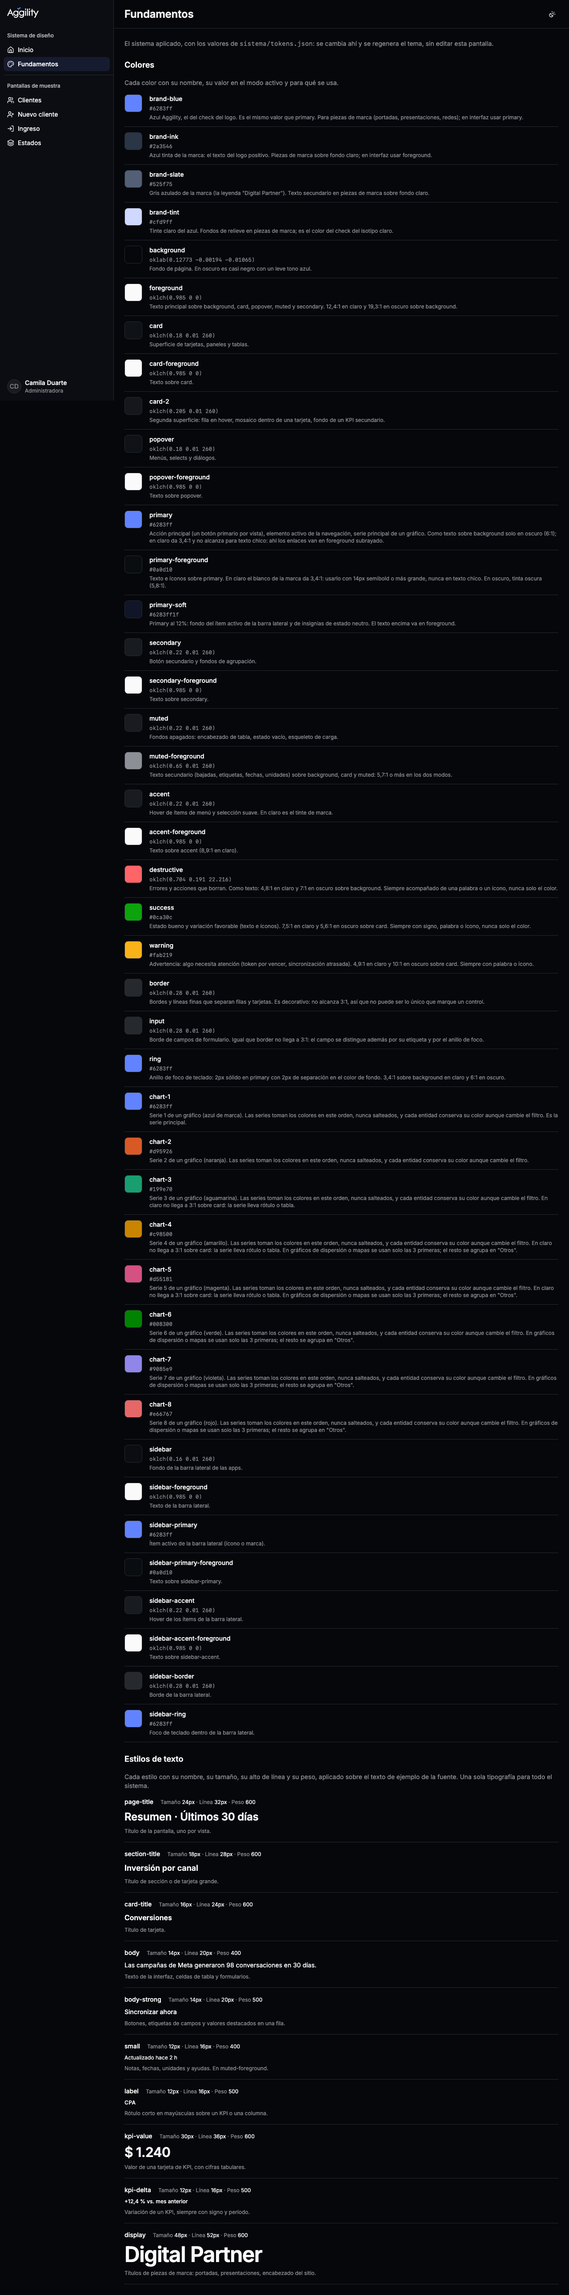
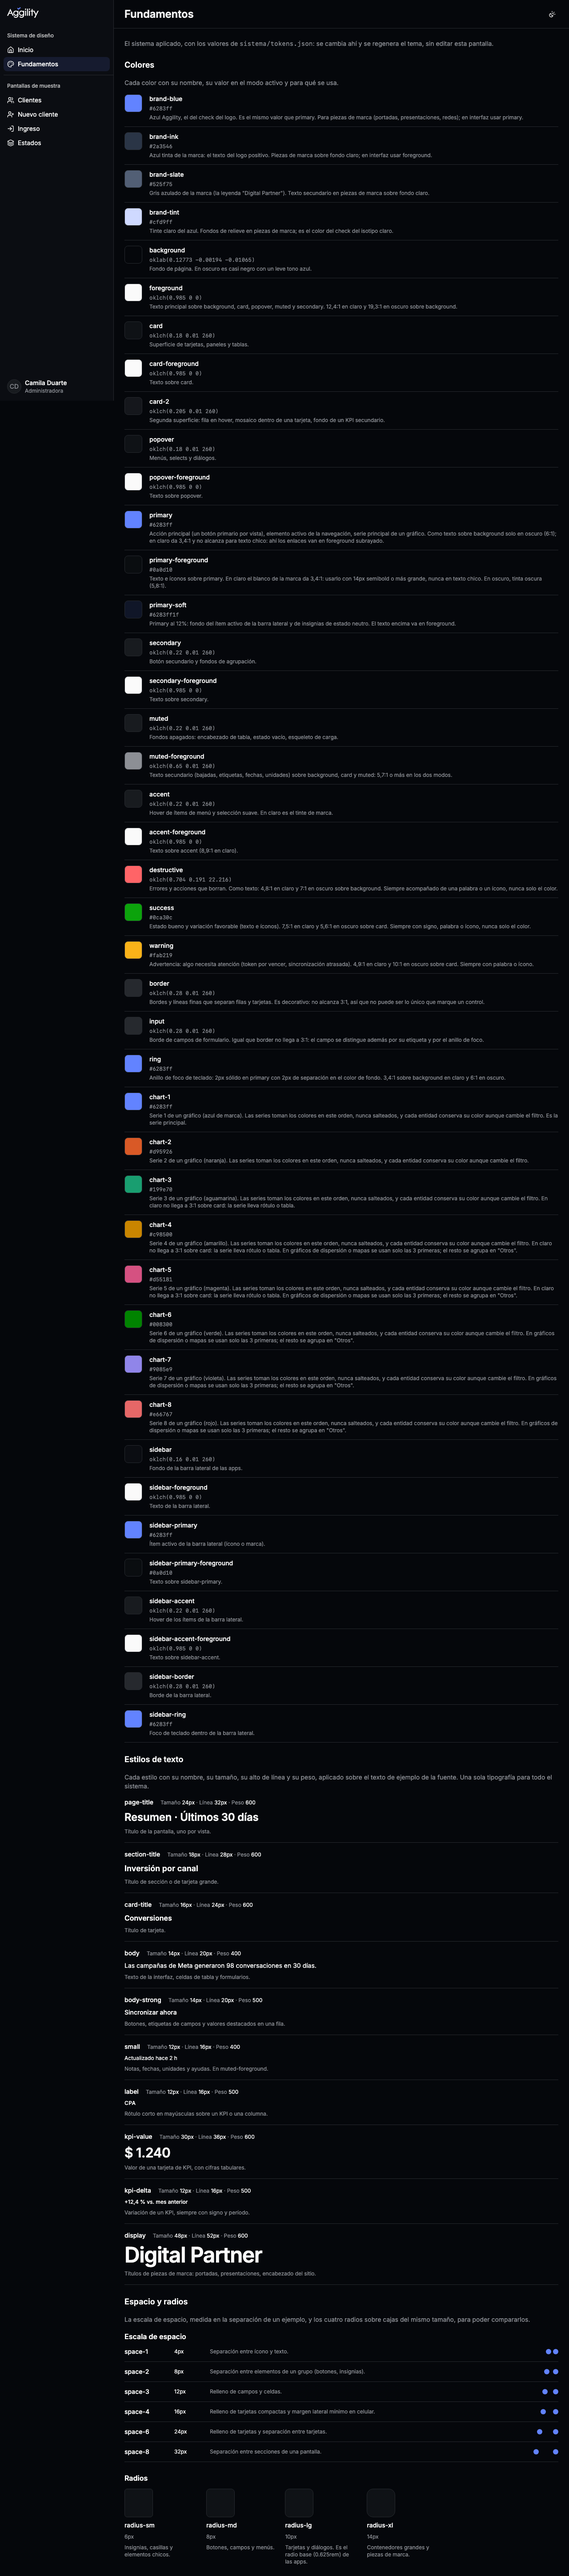
Tarea 7.3 de base-visual: la escala de espacio y los radios en la pantalla de fundamentos

diff --git a/e2e/fundamentos.spec.ts b/e2e/fundamentos.spec.ts
@@ -29,9 +29,12 @@ type Estilo = {
   sample: string;
   usage: string;
 };
+type Medida = { name: string; value: string; usage: string };
 
 const COLORES: Color[] = FUENTE.color.tokens;
 const ESTILOS: Estilo[] = FUENTE.type.groups.flatMap((grupo: { styles: Estilo[] }) => grupo.styles);
+const ESPACIOS: Medida[] = FUENTE.spacing.tokens;
+const RADIOS: Medida[] = FUENTE.radius.tokens;
 const MODOS = { claro: "light", oscuro: "dark" } as const;
 
 /** El valor que la fuente define para un modo. */
@@ -248,5 +251,124 @@ test.describe("los estilos de texto de fundamentos", () => {
     expect([...familias.keys()], "una sola familia tipográfica").toHaveLength(1);
     expect([...familias.keys()], "y es la que la app carga").toEqual([delCuerpo]);
     expect([...familias.keys()][0], "la familia es Inter").toContain("Inter");
+  });
+});
+
+test.describe("la escala de espacio y los radios de fundamentos", () => {
+  test("cada medida de la escala de espacio se ve con su nombre, su medida y un ejemplo", async ({ page }) => {
+    // El contrato de la pantalla: cada medida es un elemento con `data-espacio="<nombre>"` que
+    // muestra el nombre, el uso, la medida en un `[data-medida]` y un ejemplo visible con
+    // `data-ejemplo`, cuya separación el navegador dibuja del tamaño que la fuente dice.
+    await abrirEn(page, "claro");
+
+    const faltantes: string[] = [];
+
+    for (const espacio of ESPACIOS) {
+      const fila = page.locator(`[data-espacio="${espacio.name}"]`);
+
+      if ((await fila.count()) === 0) {
+        faltantes.push(`${espacio.name}: no está en la pantalla`);
+        continue;
+      }
+
+      const texto = (await fila.first().innerText()).replace(/\s+/g, " ");
+
+      if (!texto.includes(espacio.name)) {
+        faltantes.push(`${espacio.name}: no muestra su nombre`);
+      }
+
+      const medida = (await fila.first().locator("[data-medida]").innerText()).trim();
+
+      if (medida !== espacio.value) {
+        faltantes.push(`${espacio.name}: dice "${medida}" y la fuente dice "${espacio.value}"`);
+      }
+
+      if (espacio.usage && !texto.includes(espacio.usage.replace(/\s+/g, " "))) {
+        faltantes.push(`${espacio.name}: no muestra para qué se usa`);
+      }
+
+      // Que la medida esté escrita no alcanza: el ejemplo tiene que dibujar esa separación entre
+      // sus dos cuadros. Se mide lo dibujado, no la declaración: un ejemplo sin nada adentro
+      // también tendría el `gap` puesto.
+      const dibujado = await fila
+        .first()
+        .locator("[data-ejemplo]")
+        .evaluate((el) => {
+          const [uno, dos] = [...el.children].map((hijo) => hijo.getBoundingClientRect());
+
+          if (!uno || !dos) {
+            return { separacion: "sin ejemplo", visible: false };
+          }
+
+          return {
+            separacion: `${Math.round(dos.left - uno.right)}px`,
+            visible: uno.width > 0 && uno.height > 0 && dos.width > 0 && dos.height > 0,
+          };
+        });
+
+      if (!dibujado.visible) {
+        faltantes.push(`${espacio.name}: el ejemplo no muestra nada`);
+      }
+
+      if (dibujado.separacion !== espacio.value) {
+        faltantes.push(
+          `${espacio.name}: el ejemplo se dibuja con ${dibujado.separacion} de separación y la fuente dice ${espacio.value}`,
+        );
+      }
+    }
+
+    expect(faltantes, "la escala de espacio, con su nombre, su medida y su ejemplo").toEqual([]);
+    expect(await page.locator("[data-espacio]").count()).toBe(ESPACIOS.length);
+  });
+
+  test("cada radio se ve con su medida sobre un elemento del mismo tamaño, para compararlos", async ({ page }) => {
+    await abrirEn(page, "claro");
+
+    const faltantes: string[] = [];
+    const tamanos = new Set<string>();
+
+    for (const radio of RADIOS) {
+      const fila = page.locator(`[data-radio="${radio.name}"]`);
+
+      if ((await fila.count()) === 0) {
+        faltantes.push(`${radio.name}: no está en la pantalla`);
+        continue;
+      }
+
+      const texto = (await fila.first().innerText()).replace(/\s+/g, " ");
+
+      if (!texto.includes(radio.name)) {
+        faltantes.push(`${radio.name}: no muestra su nombre`);
+      }
+
+      const medida = (await fila.first().locator("[data-medida]").innerText()).trim();
+
+      if (medida !== radio.value) {
+        faltantes.push(`${radio.name}: dice "${medida}" y la fuente dice "${radio.value}"`);
+      }
+
+      const ejemplo = await fila
+        .first()
+        .locator("[data-ejemplo]")
+        .evaluate((el) => {
+          const dibujado = getComputedStyle(el);
+          const caja = el.getBoundingClientRect();
+
+          return {
+            radio: dibujado.borderTopLeftRadius,
+            tamanio: `${Math.round(caja.width)}×${Math.round(caja.height)}`,
+          };
+        });
+
+      if (ejemplo.radio !== radio.value) {
+        faltantes.push(`${radio.name}: el ejemplo se dibuja con ${ejemplo.radio} y la fuente dice ${radio.value}`);
+      }
+
+      tamanos.add(ejemplo.tamanio);
+    }
+
+    expect(faltantes, "los radios, con su medida y su ejemplo").toEqual([]);
+    expect(await page.locator("[data-radio]").count()).toBe(RADIOS.length);
+    expect([...tamanos], "todos los ejemplos del mismo tamaño, para poder compararlos").toHaveLength(1);
   });
 });

diff --git a/src/components/fundamentos/espacio-y-radios.tsx b/src/components/fundamentos/espacio-y-radios.tsx
@@ -1,0 +1,87 @@
+/**
+ * Las clases del tema de cada medida, escritas enteras.
+ *
+ * Tailwind arma las utilidades que ve escritas en el código: una clase compuesta al vuelo no
+ * existiría en el CSS compilado. El test de la pantalla es el que cuida que la lista no quede
+ * vieja, porque mide lo que el navegador dibuja contra la fuente de valores y nombra la medida que
+ * se quedó sin su clase.
+ *
+ * El espacio no tiene tokens propios (decisión 7 de `design.md`): la escala de la fuente coincide
+ * con la unidad por defecto de la herramienta, así que `space-4` se dibuja con `gap-4`. Los radios
+ * sí salen del tema, que los deriva del radio base (decisión 8).
+ */
+const CLASES_DE_ESPACIO: Record<string, string> = {
+  "space-1": "gap-1",
+  "space-2": "gap-2",
+  "space-3": "gap-3",
+  "space-4": "gap-4",
+  "space-6": "gap-6",
+  "space-8": "gap-8",
+};
+
+const CLASES_DE_RADIO: Record<string, string> = {
+  "radius-sm": "rounded-sm",
+  "radius-md": "rounded-md",
+  "radius-lg": "rounded-lg",
+  "radius-xl": "rounded-xl",
+};
+
+/** Una medida de la fuente de valores: su nombre, su valor en píxeles y para qué se usa. */
+export type MedidaDeLaEscala = { name: string; value: string; usage: string };
+
+/**
+ * La escala de espacio y los radios del tema, cada uno con su nombre, su medida y un ejemplo
+ * visible: la separación entre dos cuadros para el espacio, y los cuatro radios sobre cajas del
+ * mismo tamaño, que es lo que permite compararlos.
+ */
+export function EspacioYRadios({
+  espacios,
+  radios,
+}: {
+  espacios: MedidaDeLaEscala[];
+  radios: MedidaDeLaEscala[];
+}) {
+  return (
+    <div className="flex flex-col gap-6">
+      <div className="flex flex-col gap-3">
+        <h3 className="text-card-title">Escala de espacio</h3>
+
+        <ul className="flex flex-col gap-3">
+          {espacios.map((espacio) => (
+            <li
+              key={espacio.name}
+              data-espacio={espacio.name}
+              className="flex flex-wrap items-center gap-x-4 gap-y-2 border-b border-border pb-3"
+            >
+              <span className="w-24 text-body-strong">{espacio.name}</span>
+              <span data-medida className="w-16 text-small text-foreground">{espacio.value}</span>
+              <span className="text-small text-muted-foreground">{espacio.usage}</span>
+              <span data-ejemplo className={`ml-auto flex items-center ${CLASES_DE_ESPACIO[espacio.name]}`}>
+                <span className="size-3 rounded-sm bg-primary" />
+                <span className="size-3 rounded-sm bg-primary" />
+              </span>
+            </li>
+          ))}
+        </ul>
+      </div>
+
+      <div className="flex flex-col gap-3">
+        <h3 className="text-card-title">Radios</h3>
+
+        <ul className="flex flex-wrap items-start gap-6">
+          {radios.map((radio) => (
+            <li key={radio.name} data-radio={radio.name} className="flex flex-col gap-2">
+              <span
+                data-ejemplo
+                className={`size-16 border border-border bg-card ${CLASES_DE_RADIO[radio.name]}`}
+              />
+              <span className="text-body-strong">{radio.name}</span>
+              <span data-medida className="text-small text-muted-foreground">{radio.value}</span>
+              <span className="max-w-40 text-small text-muted-foreground">{radio.usage}</span>
+            </li>
+          ))}
+        </ul>
+      </div>
+    </div>
+  );
+}

diff --git a/src/app/fundamentos/page.tsx b/src/app/fundamentos/page.tsx
@@ -1,5 +1,6 @@
 import fuente from "../../../sistema/tokens.json";
 
+import { EspacioYRadios, type MedidaDeLaEscala } from "@/components/fundamentos/espacio-y-radios";
 import { EstilosDeTexto, type EstiloDeTexto } from "@/components/fundamentos/estilos-de-texto";
 import { TablaDeColores, type ColorDeLaTabla } from "@/components/fundamentos/tabla-de-colores";
 
@@ -13,6 +14,10 @@ const COLORES: ColorDeLaTabla[] = fuente.color.tokens.map((token) => ({
 
 /** Los 10 estilos de texto de la fuente, con sus medidas y su texto de ejemplo. */
 const ESTILOS: EstiloDeTexto[] = fuente.type.groups.flatMap((grupo) => grupo.styles);
+
+/** La escala de espacio y los cuatro radios del tema, con su medida y su uso. */
+const ESPACIOS: MedidaDeLaEscala[] = fuente.spacing.tokens;
+const RADIOS: MedidaDeLaEscala[] = fuente.radius.tokens;
 
 export default function Fundamentos() {
   return (
@@ -39,6 +44,16 @@ export default function Fundamentos() {
         </p>
 
         <EstilosDeTexto estilos={ESTILOS} />
+      </section>
+
+      <section className="flex flex-col gap-4">
+        <h2 className="text-section-title">Espacio y radios</h2>
+        <p className="text-body text-muted-foreground">
+          La escala de espacio, medida en la separación de un ejemplo, y los cuatro radios sobre
+          cajas del mismo tamaño, para poder compararlos.
+        </p>
+
+        <EspacioYRadios espacios={ESPACIOS} radios={RADIOS} />
       </section>
     </div>
   );

diff --git a/openspec/changes/base-visual/tasks.md b/openspec/changes/base-visual/tasks.md
@@ -171,7 +171,14 @@ Cubre la capacidad `pantalla-fundamentos` (sección 5.2, guía visual).
   - Prueba del rojo por mutación: con `card-title` apuntando a `text-body` y mostrando en «Línea» el tamaño en lugar del alto de línea, el test falla nombrando el estilo y los valores (`card-title: se dibuja en 14px y la fuente dice 16px`, `card-title: linea dice "24px" y la fuente dice "16px"`); revertido, vuelve a 12/12.
   - **Dos cambios de la pantalla fuera de esta tarea**, para que no queden sin decir: el bloque de colores ahora tiene un `section-title` («Colores») y la bajada de la pantalla pasó a hablar del sistema en general (`sistema/tokens.json`), porque la pantalla dejó de ser sólo de colores. Los tests de 7.1 siguen en verde sin tocarlos.
   - Las **24 capturas** se regeneraron: cambiaron **sólo las 4 de fundamentos** (`git status --short docs/capturas`), y la sección se revisó en la captura de 1280 claro. A 390 px no hay desplazamiento lateral (lo cubre `e2e/estructura-390.spec.ts`, que pasa por esta pantalla en los dos modos). El valor que la pantalla muestra sale de la fuente y el estilo se aplica con la clase del tema: no hay ningún valor escrito a mano.
-- [ ] 7.3 Mostrar la escala de espacio y los radios con su nombre, su medida y un ejemplo visible. Archivos: `src/components/fundamentos/espacio-y-radios.tsx`, `e2e/fundamentos.spec.ts`. Verificación: `npx playwright test e2e/fundamentos.spec.ts` en verde y `npm run capturas`.
+- [x] 7.3 Mostrar la escala de espacio y los radios con su nombre, su medida y un ejemplo visible. Archivos: `src/components/fundamentos/espacio-y-radios.tsx`, `e2e/fundamentos.spec.ts`. Verificación: `npx playwright test e2e/fundamentos.spec.ts` en verde y `npm run capturas`.
+  - Verificado (13/10/2026): el test arrancó **en rojo por el motivo correcto** —los 6 espacios y los 4 radios nombrados uno por uno (`space-1: no está en la pantalla`, …, `radius-xl: no está en la pantalla`)— y quedó en verde: `e2e/fundamentos.spec.ts` **16/16** (8 casos × 2 anchos), `npx playwright test` completo **52 pasan**/16 saltados, `npm test` 33 tests, `npx tsc --noEmit` y `npm run lint` en verde, y `npm run capturas`.
+  - La pantalla: `src/components/fundamentos/espacio-y-radios.tsx` (componente de servidor) y una tercera sección en la página («Espacio y radios»). Cada medida es un `li` con `data-espacio="<nombre>"` o `data-radio="<nombre>"` que muestra el nombre, el uso, la medida en `[data-medida]` y un ejemplo visible con `data-ejemplo`: para el espacio, dos cuadros separados; para los radios, cuatro cajas **del mismo tamaño** (64×64) con el radio aplicado, que es lo que permite compararlos.
+  - **El test mide lo dibujado, no lo declarado.** Para el espacio mide la distancia entre los dos cuadros del ejemplo (no el `gap` computado: un ejemplo vacío también tendría el `gap` puesto) y comprueba que los dos cuadros tengan tamaño; para los radios, que el radio computado sea el de la fuente **y** que los cuatro ejemplos midan lo mismo, que es la condición para poder compararlos.
+  - Las clases del tema van escritas enteras, como en 7.2, y por la misma razón: una clase compuesta al vuelo no llega al CSS. El espacio no tiene tokens propios (decisión 7): `space-4` se dibuja con `gap-4`, la unidad por defecto de la herramienta; los radios sí salen del tema, que los deriva del radio base (decisión 8), y se usan `rounded-sm/md/lg/xl`.
+  - Prueba del rojo por mutación: con `space-4` apuntando a `gap-3` y `radius-xl` a `rounded-2xl`, el test falla nombrando los dos (`space-4: el ejemplo se dibuja con 12px de separación y la fuente dice 16px`, `radius-xl: el ejemplo se dibuja con 16px y la fuente dice 14px`); revertido, vuelve a 16/16.
+  - **Cómo se corrió la suite, para que quede anotado:** Germán tenía el `next dev` del proyecto levantado en el 3000, y un `next dev` bloquea a otro en la misma carpeta (el aviso es "Another next dev server is already running", sin importar el puerto). No se tocó su servidor: los tests corrieron contra la **app compilada** en el 3203 con una config temporal (`playwright.local.config.ts`, borrada al terminar), y la config del proyecto quedó igual. `npm run capturas` ya levanta su propio servidor compilado en el 3400 y no tuvo problema.
+  - Las **24 capturas** se regeneraron: cambiaron **sólo las 4 de fundamentos**, como en 7.2.
 - [ ] 7.4 Mostrar las series de gráfico en orden y los estados siempre con palabra, signo o ícono, sin usar el color de un estado como color de serie. Archivos: `src/components/fundamentos/series-y-estados.tsx`, `tests/componentes/estados.test.tsx`. Verificación: `npm test` y `npx playwright test e2e/fundamentos.spec.ts` en verde, y `npm run capturas`.
 - [ ] 7.5 Mostrar los logos con su regla de uso (cuál va sobre fondo claro, cuál sobre oscuro y el isotipo en espacio cuadrado), como imágenes, sin recolorear ni redibujar. Archivos: `src/components/fundamentos/logos.tsx`, `e2e/fundamentos.spec.ts`. Verificación: `npx playwright test e2e/fundamentos.spec.ts` en verde y `npm run capturas`.
 - [ ] 7.6 Escribir el test de coincidencia con la fuente (`tests/fundamentos/coincidencia.test.ts`): lo que la pantalla muestra coincide con los valores de `sistema/tokens.json`. Verificación: `npm test` en verde; cambiar un valor en la fuente, correr `npm run tema` y ver el valor nuevo en la pantalla; después revertir el cambio de la fuente y dejar el test en verde (anotar el resultado en `verificacion.md`).
